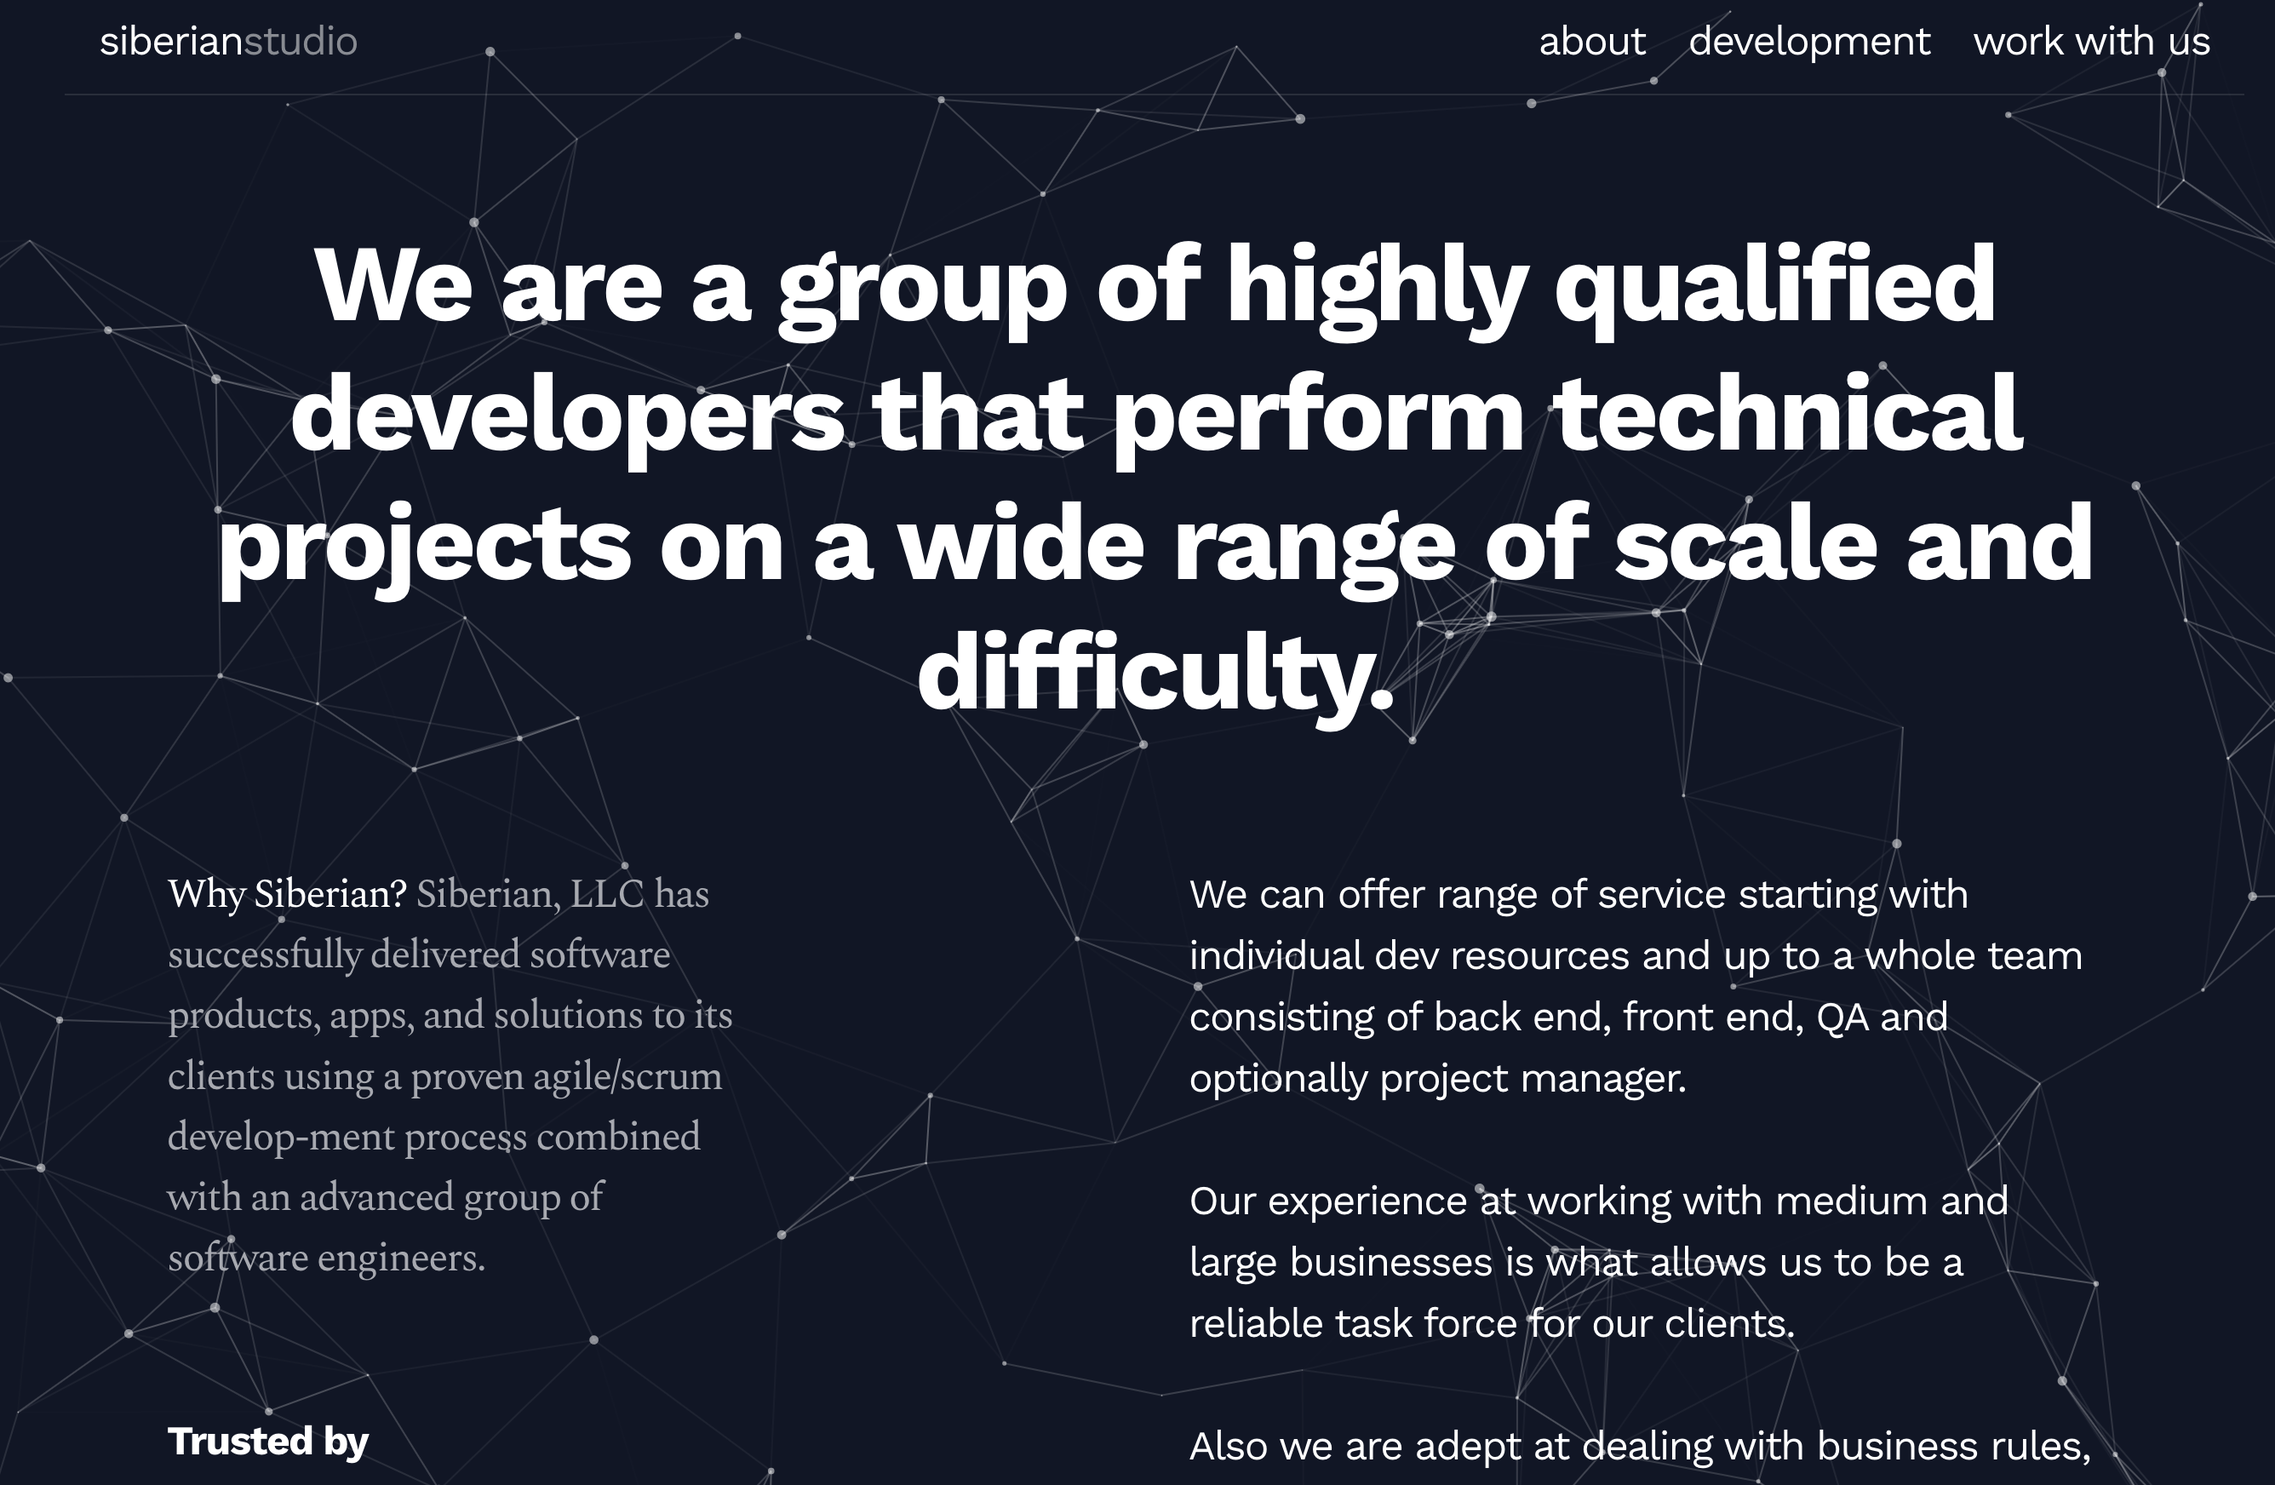
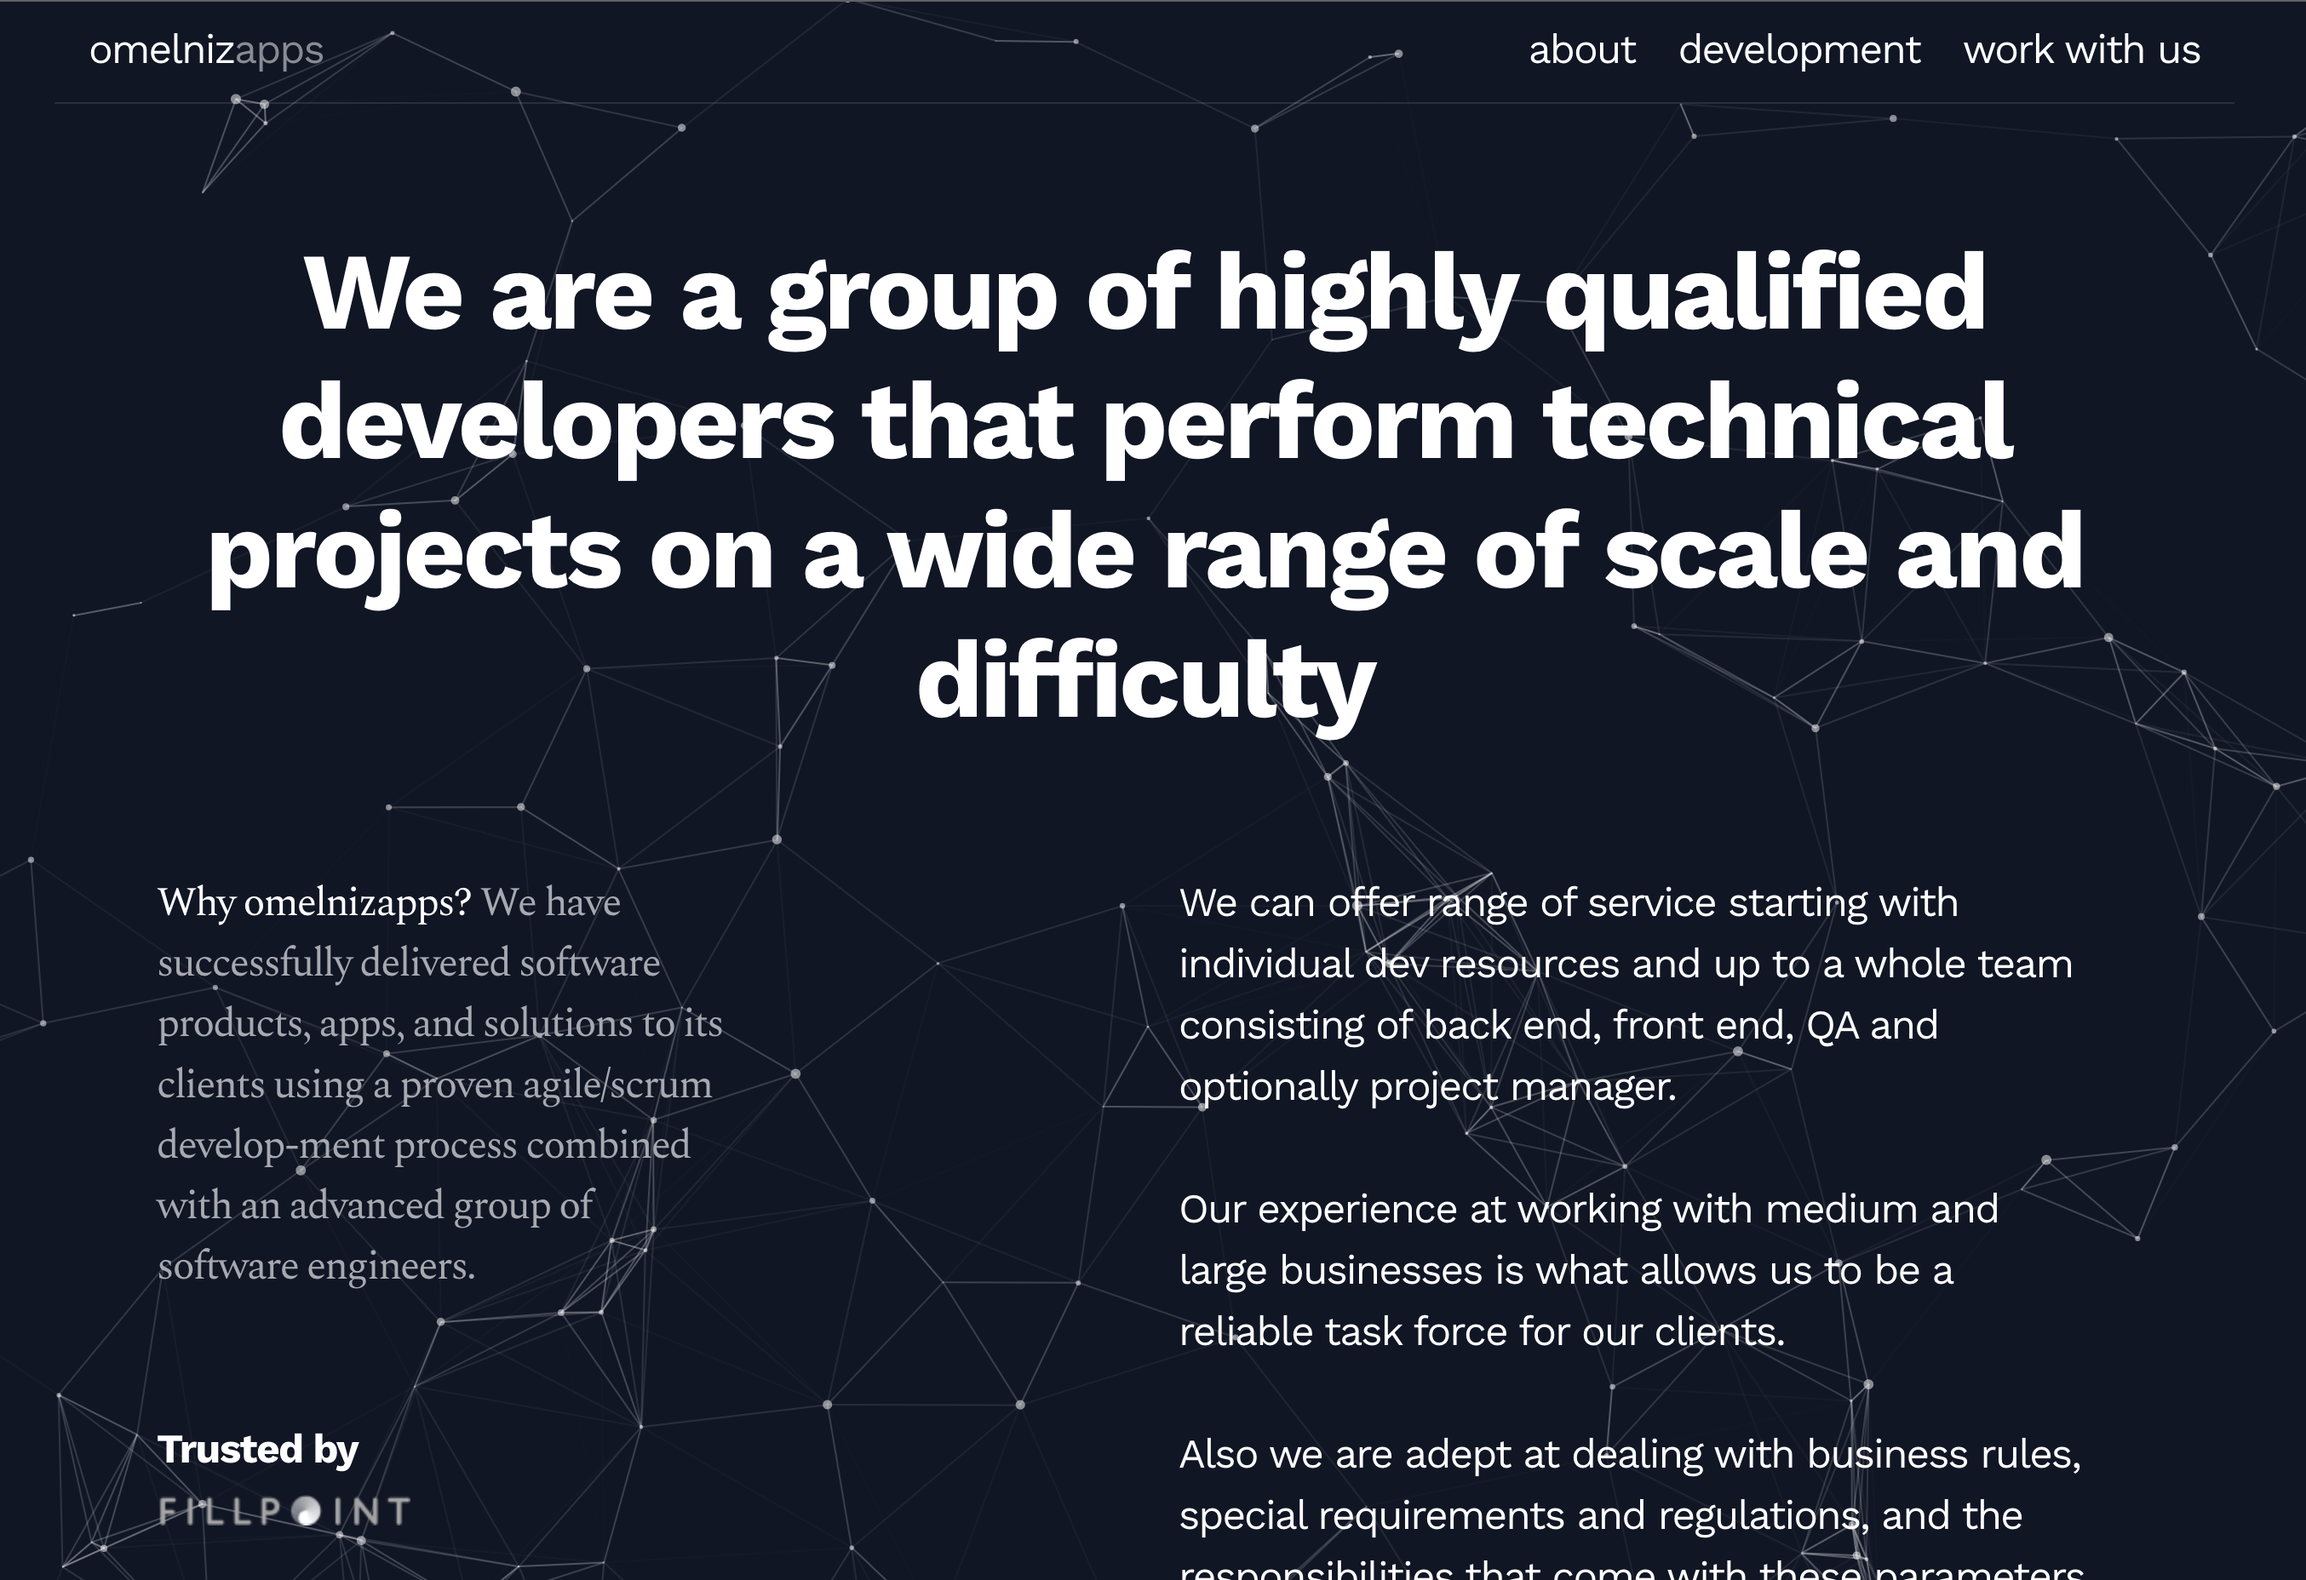
chore: update metatags

diff --git a/README.md b/README.md
@@ -1,6 +1,6 @@
 ![Preview](https://github.com/omelniz/omelnizapps/blob/master/preview.png)
 
-# Siberian.io
+# omelnizapps.io
 
 ## Installation
 
